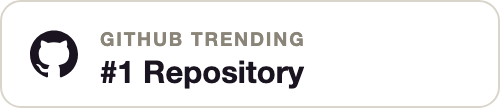
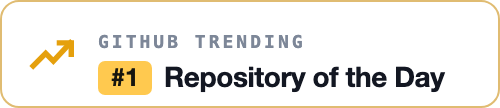
site: nothing under the hero Download button, and the README badge matches the site's
The v0.4.6 release note sat directly under the hero's Download button, which
is the one place on the page where a person has already decided. It is gone;
0.4.6 is still on the release notes page and in the launch post.

The README's GitHub Trending badge was drawn before I had seen the one the
site actually ships. It now matches: the same trending arrow in accent, the
same "#1" chip, the same "Repository of the Day" wording, and it links to
the same Trendshift page.

Claude-Session: https://claude.ai/code/session_01YXP55KwQAmAyP9Zr6hsKfx

Changed region(s): [[0.06, 0.2778, 0.9, 0.8889], [0.0, 0.0, 1.0, 1.0]]

diff --git a/docs/index.html b/docs/index.html
@@ -1150,13 +1150,6 @@
         <a class="btn primary lg" data-download href="https://github.com/chaitanyagiri/munder-difflin/releases/latest"><span class="ic">⤓</span> Download Free</a>
         <a class="btn ghost lg" href="#how">See how it works ↓</a>
       </div>
-      <!-- v0.4.6. Text only on purpose: the Arabic layout still has mirroring
-           left to do, so the fold states what shipped and shows no screenshot. -->
-      <p class="rel-note">
-        <span class="rel-tag">NEW IN 0.4.6</span>
-        The interface speaks <b class="i18n-face">简体中文</b> and <b class="i18n-face">العربية</b>, right to left included.
-        The fonts ship inside the app, so it fetches nothing from Google and renders where those hosts are blocked.
-      </p>
     </div>
         <div class="cli-bar rv">
       <h3>Munder Difflin uses CLI agents running on your computer to do anything you can do</h3>

diff --git a/README.md b/README.md
@@ -7,7 +7,7 @@
 ### Agent harness to run an office of your clones
 
 <p>
-  <a href="https://github.com/chaitanyagiri/munder-difflin"><img alt="#1 Repository on GitHub Trending" src="./docs/badge-github-trending.png" width="250" height="54"></a>
+  <a href="https://trendshift.io/repositories/46562" target="_blank" rel="noopener noreferrer"><img alt="GitHub Trending — #1 Repository of the Day" src="./docs/badge-github-trending.png" width="250" height="54"></a>
   <a href="https://www.producthunt.com/products/munder-difflin?embed=true&utm_source=badge-top-post-badge&utm_medium=badge&utm_campaign=badge-munder-difflin" target="_blank" rel="noopener noreferrer"><img alt="Munder Difflin — #5 Product of the Day on Product Hunt" src="https://api.producthunt.com/widgets/embed-image/v1/top-post-badge.svg?post_id=1221363&theme=light&period=daily" width="250" height="54"></a>
 </p>
 
